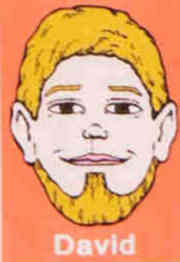
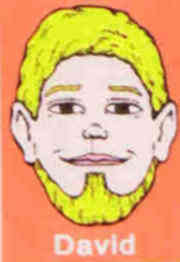
GuessWho - further work on game logic; better images

diff --git a/python/GuessWho/Gui/qt/GuessWhoGui2.py b/python/GuessWho/Gui/qt/GuessWhoGui2.py
@@ -2,11 +2,10 @@ from PyQt4.QtGui import *
 from PyQt4.QtCore import *
 import sys, os
 import charactersLib
-import random
+import random, weakref
 
 CB_STYLE = R"""
 QCheckBox::indicator { width: 3px; height: 3px; }
-QCheckBox::checked { background-color: #e0e0a0 }
 """
 
 class GameData():
@@ -28,19 +27,43 @@ class GameData():
         import random
         return self.people[random.randint(0,  len(self.people)-1)]
 
-class checkbox_style():
+
+class CheckboxClickProxy:
+    def __init__(self, checkbox0, checkbox, game_state):
+        self.checkbox0 = checkbox0
+        self.checkbox = checkbox
+        self.game_state = game_state
+
     def __call__(self):
-        self.checkbox.opacity = 0.5
+        self.game_state.checkboxClicked(self.checkbox0, self.checkbox)
+
 
 class GameState:
+    def __init__(self):
+        self.checkboxLabelTuples = list()
+
+    def restart(self):
+        person = game_data.random()
+        self.answersModel.clear()
+        self.qmFiltered.invalidate()
+        for cb,label in self.checkboxLabelTuples:
+            cb.setChecked(False)
+            label.setEnabled(True)
+
+    def checkboxClicked(self, checkbox0, checkbox):
+        checkbox.setEnabled( not checkbox0.isChecked() )
+        self.qmFiltered.invalidate()
+
     def keyPressEvent(self, keyEvent):
         if keyEvent.key()==Qt.Key_F5:
             # Launch the app again and close this one
             os.system(R'explorer "{}"'.format(sys.argv[0]))
             self.close()
+
     def clearQuestionsModel(self):
         for i in range(0, self.questionsModel.rowCount()):
             self.questionsModel.item(i).setCheckState( Qt.Unchecked )
+
     def answer(self, attributes, strAndOr):
         person = self.person
         attribsOfPerson = self.game_data.characters[person]
@@ -58,6 +81,7 @@ class GameState:
                     return "no"
             return "yes"
         return "no"
+
     def rowFromAttributes(self, attributes, strAndOr):
         questionStr = ''
         for x in attributes:
@@ -70,19 +94,22 @@ class GameState:
         for item in items:
             item.setSelectable(False)
         return items
+
     def askOR_AND(self, attributes, strAND_OR):
         if not attributes:
            return
         items = self.rowFromAttributes( attributes, strAND_OR )
         self.answersModel.appendRow( items )
         self.answersView.resizeColumnsToContents()
-        self.OR_Attributes = None
         self.AND_Attributes = None
         self.clearQuestionsModel()
+
     def askOR(self,  ev):
-        self.askOR_AND(self.OR_Attributes, 'OR')
+        self.askOR_AND(self.AND_Attributes, 'OR')
+
     def askAND(self,  ev):
         self.askOR_AND(self.AND_Attributes, 'AND')
+
     def questionsListItemChanged(self,  qStandardItem):
         model = self.questionsModel
         attributes = []
@@ -96,7 +123,6 @@ class GameState:
         else:
             strOR = attributes[0][0]
             strAND = attributes[0][0]
-            self.OR_Attributes = attributes[:]
             self.AND_Attributes = attributes[:]
             for x in attributes[1:]:
                 strOR = strOR + " OR " + x[0]
@@ -104,7 +130,38 @@ class GameState:
             self.btnOR.setDescription(strOR)
             self.btnAND.setDescription(strAND)
 
+
+class MySortFilterProxyModel(QSortFilterProxyModel):
+    def __init__(self):
+        super(MySortFilterProxyModel, self).__init__()
+        self.game_state = None
+        self.game_data = None
+    
+    def filterAcceptsRow (self, source_row, source_parent):
+        if not self.game_state or not self.game_data: return True
+        gs = self.game_state()
+        gd = self.game_data()
+        qm = gs.questionsModel
+        if not gs: return True
+        if not gd: return True
+        if qm.item(source_row).data()=="name":
+            strName = str(qm.item(source_row).text())
+    	    for cb,label in gs.checkboxLabelTuples:
+                if cb.isEnabled():
+                    if strName==label.name:
+                        return True
+            return False
+        if qm.item(source_row).data()=="attribute":
+            strAttribute = str(qm.item(source_row).text())
+    	    for cb,label in gs.checkboxLabelTuples:
+                if cb.isEnabled():
+                    if strAttribute in gd.characters[label.name]:
+                        return True
+            return False
+        return True
+
 game_data = GameData()
+
 
 def makeQuestionsView():
     lv = QListView()
@@ -126,8 +183,13 @@ def makeQuestionsView():
         model.appendRow(item)
     lv.setWindowTitle('Example List')
     lv.setMinimumSize(200,200)
-    lv.setModel(model)
-    return (lv,  model)
+
+    modelFiltered = MySortFilterProxyModel()
+    modelFiltered.setSourceModel(model)
+    lv.setModel(modelFiltered)
+
+    return (lv, model, modelFiltered)
+
 
 def makeAnswersView(game_state):
     answersView = QTableView(None)
@@ -143,55 +205,71 @@ def makeAnswersView(game_state):
     game_state.answersView = answersView
     return (answersView,  model)
 
+
 def make_AND_OR_VBoxLayout(window):
     layout = QVBoxLayout()
-    
-    btnAND = QCommandLinkButton("Is The Person... (AND)")
-    btnAND.setMaximumSize( 300,  10000 )
-    layout.addWidget( btnAND )
-    btnAND.clicked.connect( window.askAND )
-    window.btnAND = btnAND
     
     btnOR = QCommandLinkButton("Is The Person... (OR)")
     btnOR.setMaximumSize( 300,  10000 )
     layout.addWidget( btnOR )
     btnOR.clicked.connect( window.askOR )
     window.btnOR = btnOR
+ 
+    btnAND = QCommandLinkButton("Is The Person... (AND)")
+    btnAND.setMaximumSize( 300,  10000 )
+    layout.addWidget( btnAND )
+    btnAND.clicked.connect( window.askAND )
+    window.btnAND = btnAND
+    btnAND.setEnabled(False)
     
     return layout
 
+
 def makeTopRowLayout(game_state):
     hbox = QHBoxLayout()
-    questionsView, questionsModel = makeQuestionsView()
+    questionsView, questionsModel, qmFiltered = makeQuestionsView()
     questionsModel.itemChanged.connect( game_state.questionsListItemChanged )
     game_state.questionsModel = questionsModel
+    game_state.qmFiltered = qmFiltered
+    qmFiltered.game_state = weakref.ref(game_state)
+    qmFiltered.game_data = weakref.ref(game_data)
     hbox.addWidget(questionsView)
     layout_AND_OR = make_AND_OR_VBoxLayout(game_state)
     hbox.addLayout( layout_AND_OR )
     answersView, answersModel = makeAnswersView(game_state)
     game_state.answersModel = answersModel
     hbox.addWidget(answersView)
+
+    btnRestart = QCommandLinkButton("Restart")
+    btnRestart.clicked.connect( game_state.restart )
+    hbox.addWidget( btnRestart )
+
+
     return hbox
 
-def makeButtonGridLayout(game_data, window):
+
+def makeButtonGridLayout(game_data, game_state):
     buttonGridLayout = QGridLayout()
     x = 0
     y = 0
     for i in game_data.people:
         checkbox = QCheckBox(i)
-        checkbox.setStyleSheet(CB_STYLE)
-        im = checkbox
-        #im.setIcon( QIcon("../tiles/{}.jpg".format(i)) )
-        im.setIconSize( QSize(100,100) )
-        tmp = checkbox_style()
-        tmp.checkbox = checkbox
-        checkbox.pressed.connect( tmp )
-        buttonGridLayout.addWidget(checkbox,y,x)
+        label = QLabel("")
+        label.name = i
+        label.setStyleSheet(CB_STYLE)
+        game_state.checkboxLabelTuples.append( (checkbox, label) )
+        im = QPixmap("../tiles/{}.jpg".format(i))
+        im = im.scaledToHeight(100)
+        label.setPixmap( im )
+        checkbox.released.connect( CheckboxClickProxy(checkbox, label, game_state) )
+        buttonGridLayout.addWidget(checkbox,y+1,x)
+        buttonGridLayout.addWidget(label,y,x)
         x += 1
         if x==6:
-            x = 0; y += 1
+            x = 0; y += 2
     return buttonGridLayout
-    
+
+
 def main():
     app = QApplication(sys.argv)
     window = QMainWindow()
@@ -202,8 +280,9 @@ def main():
     mainLayout = QVBoxLayout()
     game_state.person = game_data.random()
 
-    print game_data.characters[ game_state.person ]
-    print game_state.person
+    
+    #print game_data.characters[ game_state.person ]
+    #print game_state.person
 
     mainLayout.addLayout( makeTopRowLayout(game_state) )
 
@@ -218,6 +297,7 @@ def main():
     window.show()
 
     app.exec_()
+
 
 if __name__ == '__main__':
     dirOfMe = os.path.dirname(sys.argv[0])
